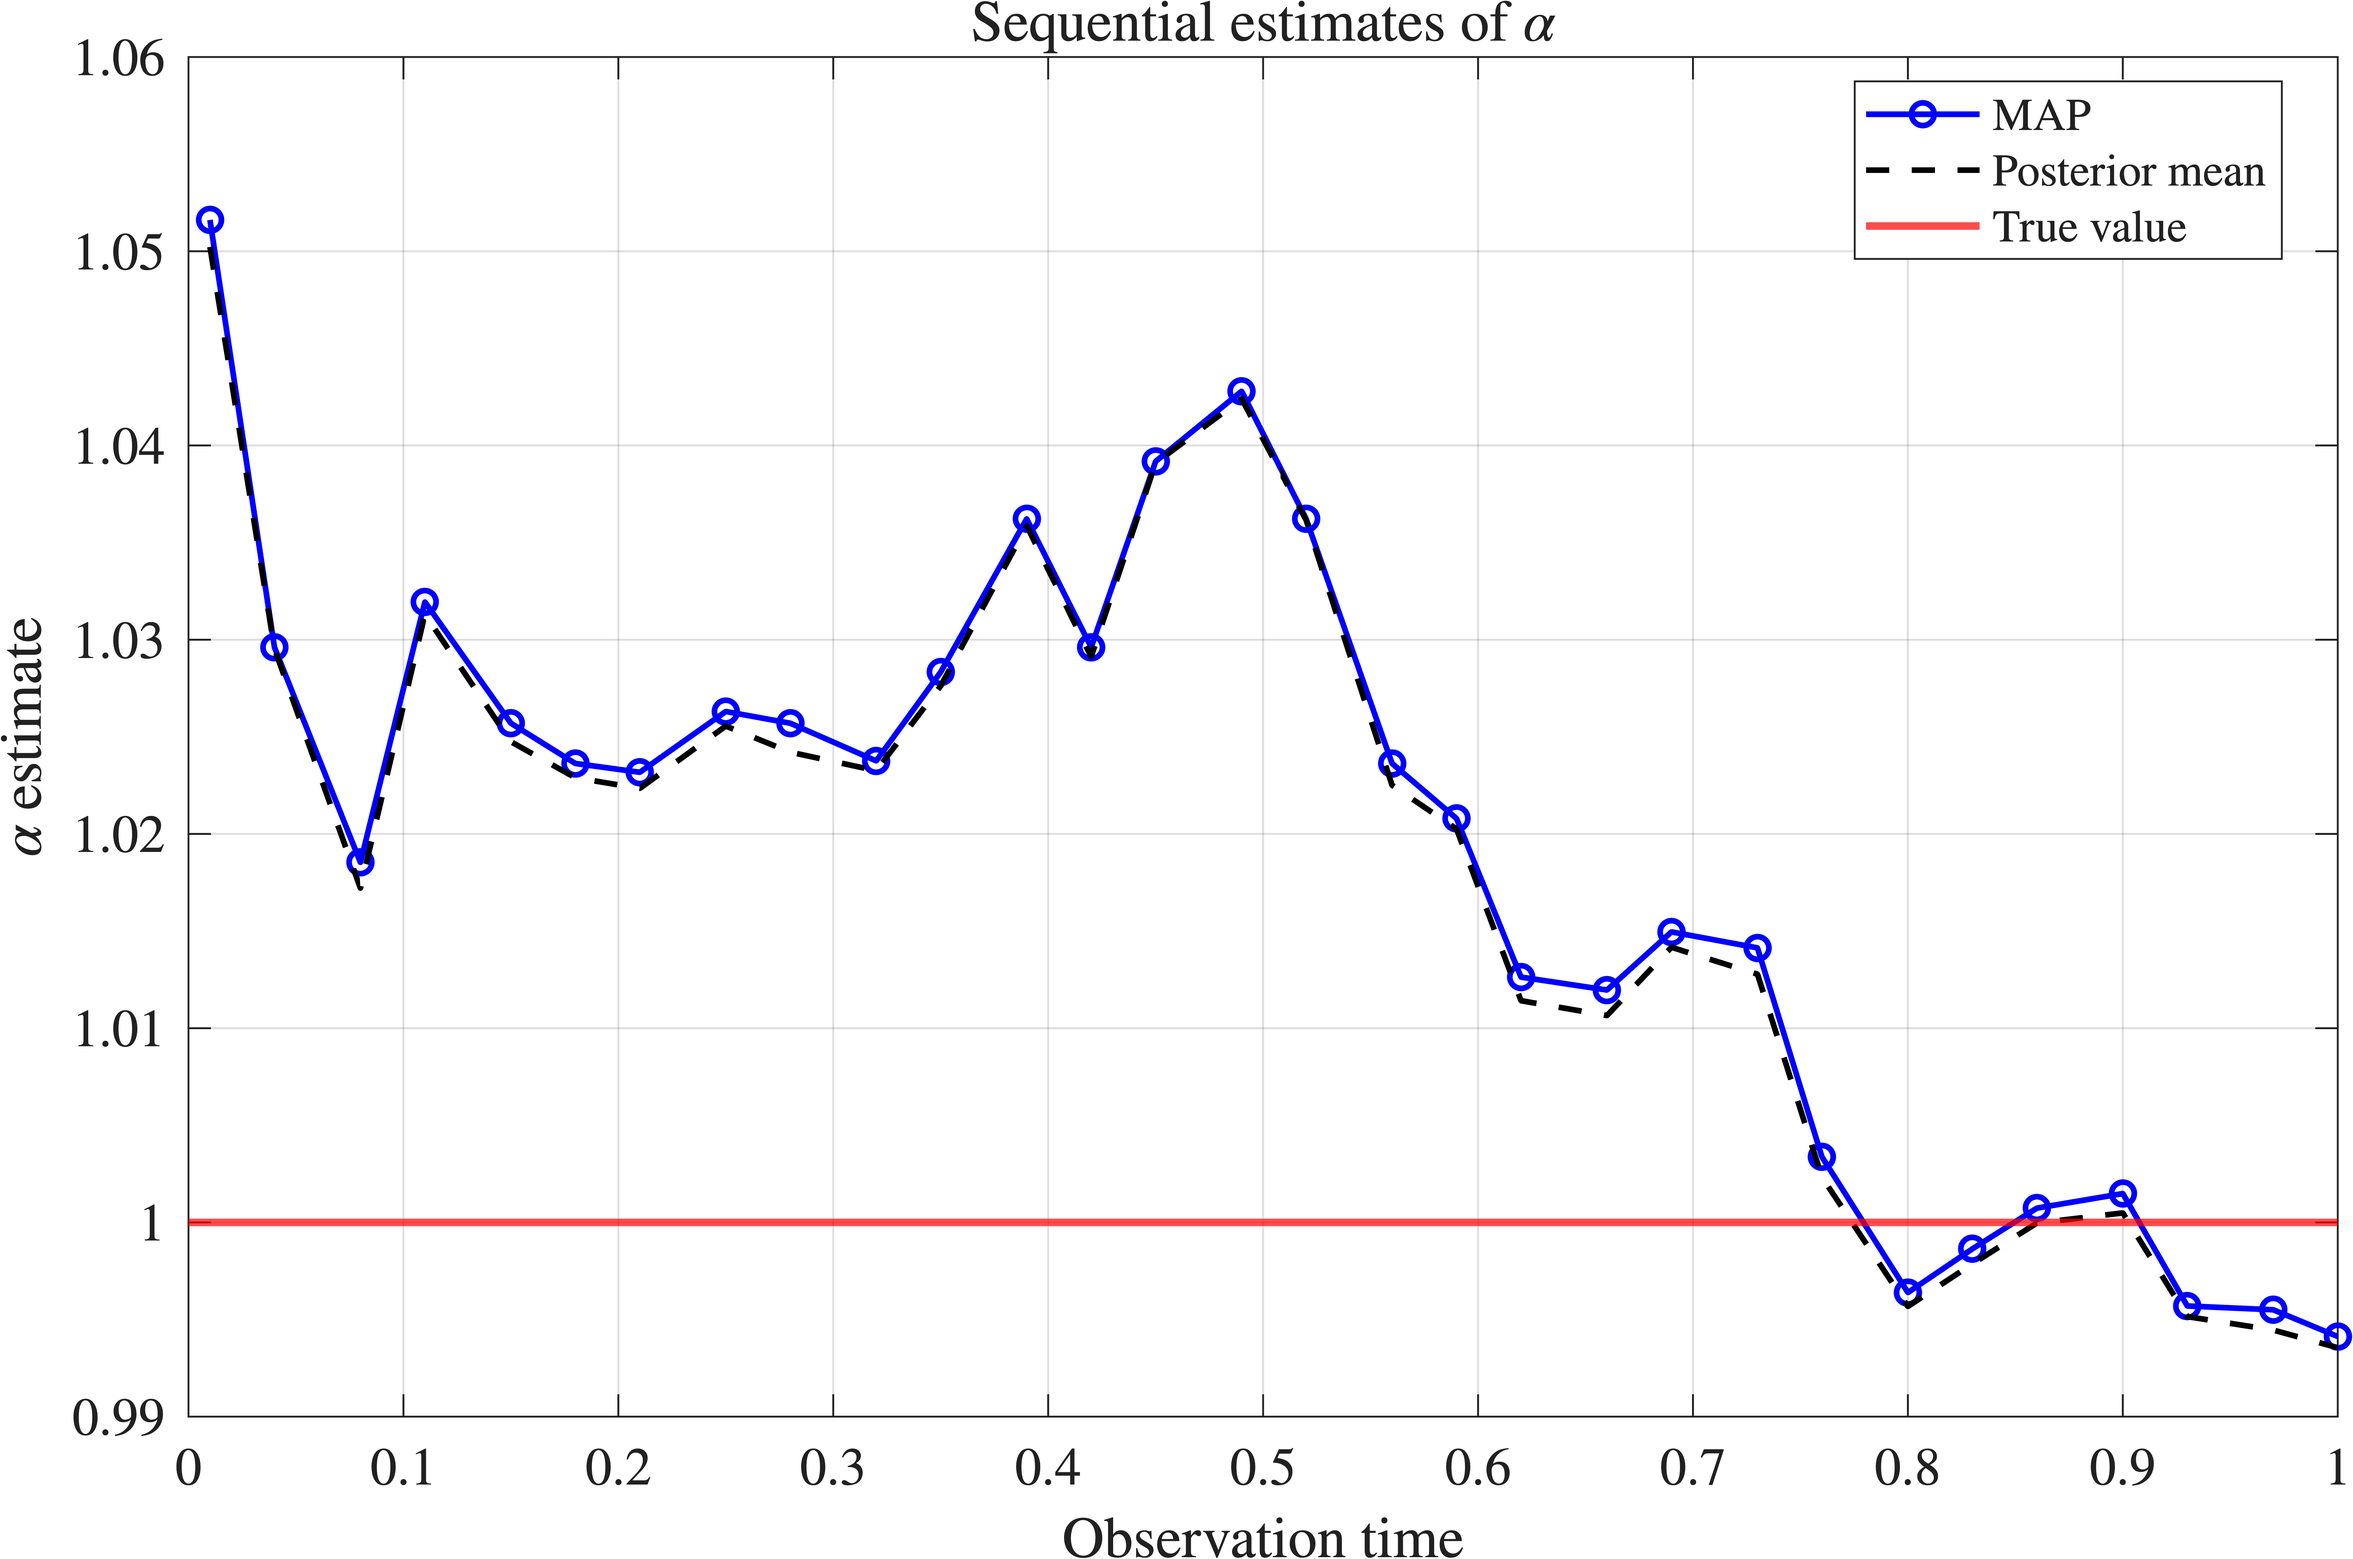
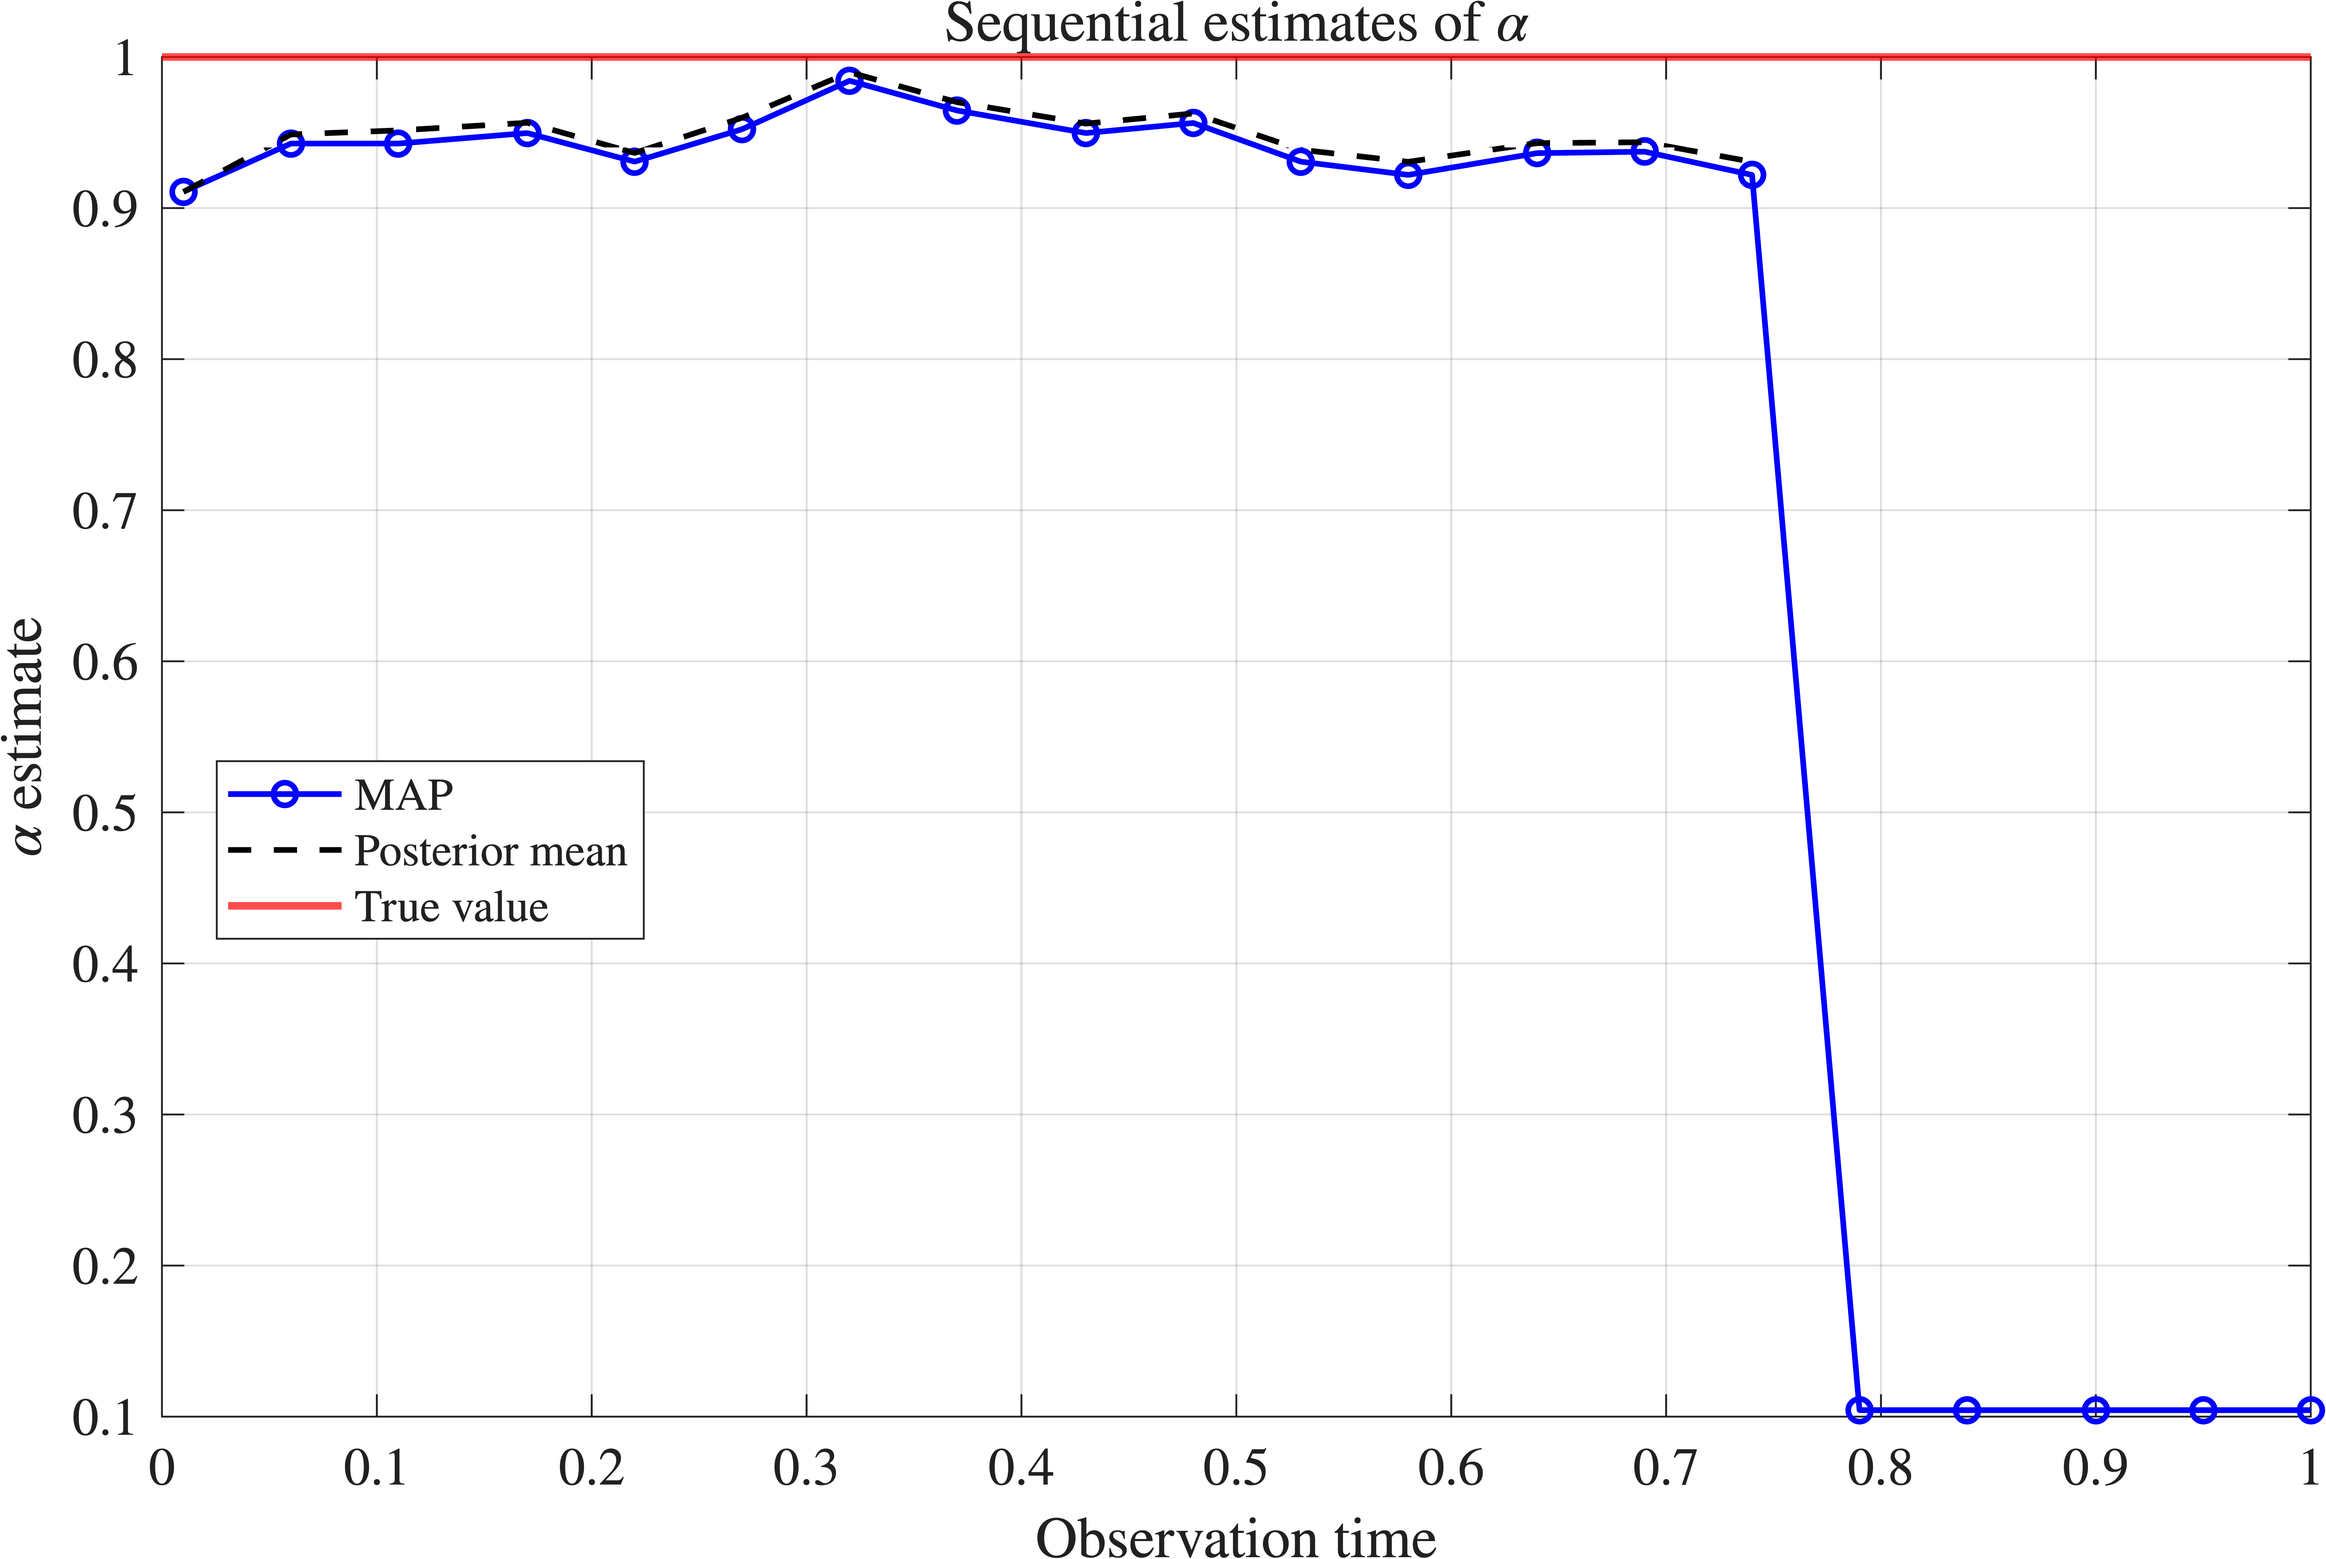
Code is broken; getting NaN and unexpected plots

diff --git a/driver.m b/driver.m
@@ -11,7 +11,8 @@ n_MC = 5000;
 
 % Uniform discrete prior over sampled alpha candidates
 prior = ones(n_MC, 1) ./ n_MC;
-alpha_dist = alpha_a + (alpha_b - alpha_a).*rand(n_MC, 1);
+% alpha_dist = alpha_a + (alpha_b - alpha_a).*rand(n_MC, 1); Uniform dist
+alpha_dist = alpha_a + (alpha_b - alpha_a).*normrnd(alpha_a, alpha_b, [n_MC, 1]);
 log_likelihood = zeros(n_MC, 1);
 h = 20.0;
 
@@ -28,11 +29,11 @@ u0fun = @(x) cos(pi.*x);
 
 [x,t, Utrue, full_A, rhs, biot] = forward_heat_varK(alpha, N, dt, T, u0fun, T_infy, h, big_U, L);
 
-M = 30; % Number of sensors
+M = 10; % Number of sensors
 sensor_idx = round(linspace(2, N, M));
 x_sensors = x(sensor_idx);
 
-K = 30; % Number of observation times
+K = 20; % Number of observation times
 obs_times = linspace(0.01, T, K);
 obs_idx = round(obs_times/dt) + 1;
 t_obs = t(obs_idx);
@@ -67,13 +68,11 @@ post_by_time = zeros(n_MC, K);
 
 for k = 1:K
     misfit_k = bsxfun(@minus, Y_noisy(:,k)', Y_model_all(:,:,k));
-    log_likelihood = log_likelihood ...
-        - (1/(2*sigma^2)) * sum(misfit_k.^2, 2);
+    log_likelihood = log_likelihood - (1/(2*sigma^2)) * sum(misfit_k.^2, 2);
 
     log_post_k = log(prior) + log_likelihood;
     log_post_k = log_post_k - max(log_post_k);
     post_k = exp(log_post_k);
-    post_by_time(:,k) = post_k;
 
     weights_k = post_k ./ sum(post_k);
     [~, idx_map_k] = max(weights_k);
@@ -90,7 +89,7 @@ post_sorted = post(sort_idx);
 % Numerical integral via trapezoid rule
 Z = trapz(alpha_sorted, post_sorted);  % normalizing constant
 post_normalized = post_sorted / Z;     
-post_normalized = post_normalized / 10;
+post_normalized = post_normalized;
 
 % MAP estimate
 [~, idx_max] = max(post_normalized);
@@ -108,7 +107,7 @@ save('synthetic_data.mat', 'x_sensors','t_obs','Y_noisy','Y_clean', ...
 
 figure;
 scatter(alpha_sorted, post_normalized, 30, 'b','filled');
-ylim([0 1]);
+% ylim([0 1]);
 xlabel('$\alpha$', 'Fontsize', 20);
 ylabel('Posterior Probability', 'Fontsize', 20);
 fig_title = "Posterior distribution of $\alpha$ with relative noise = " +  p;
